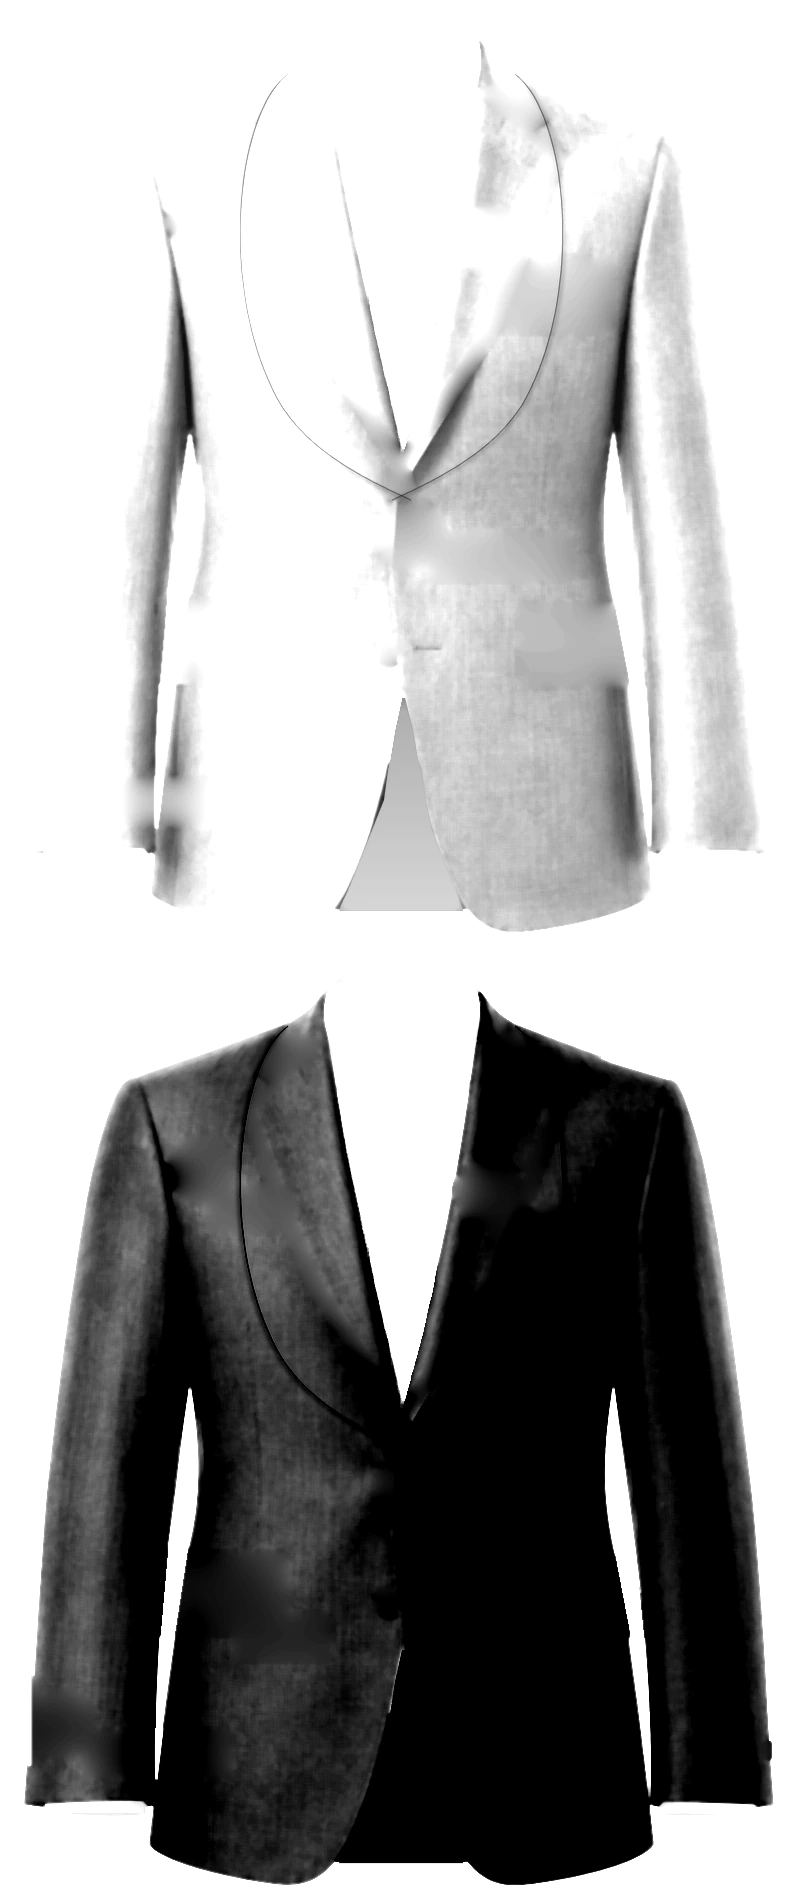
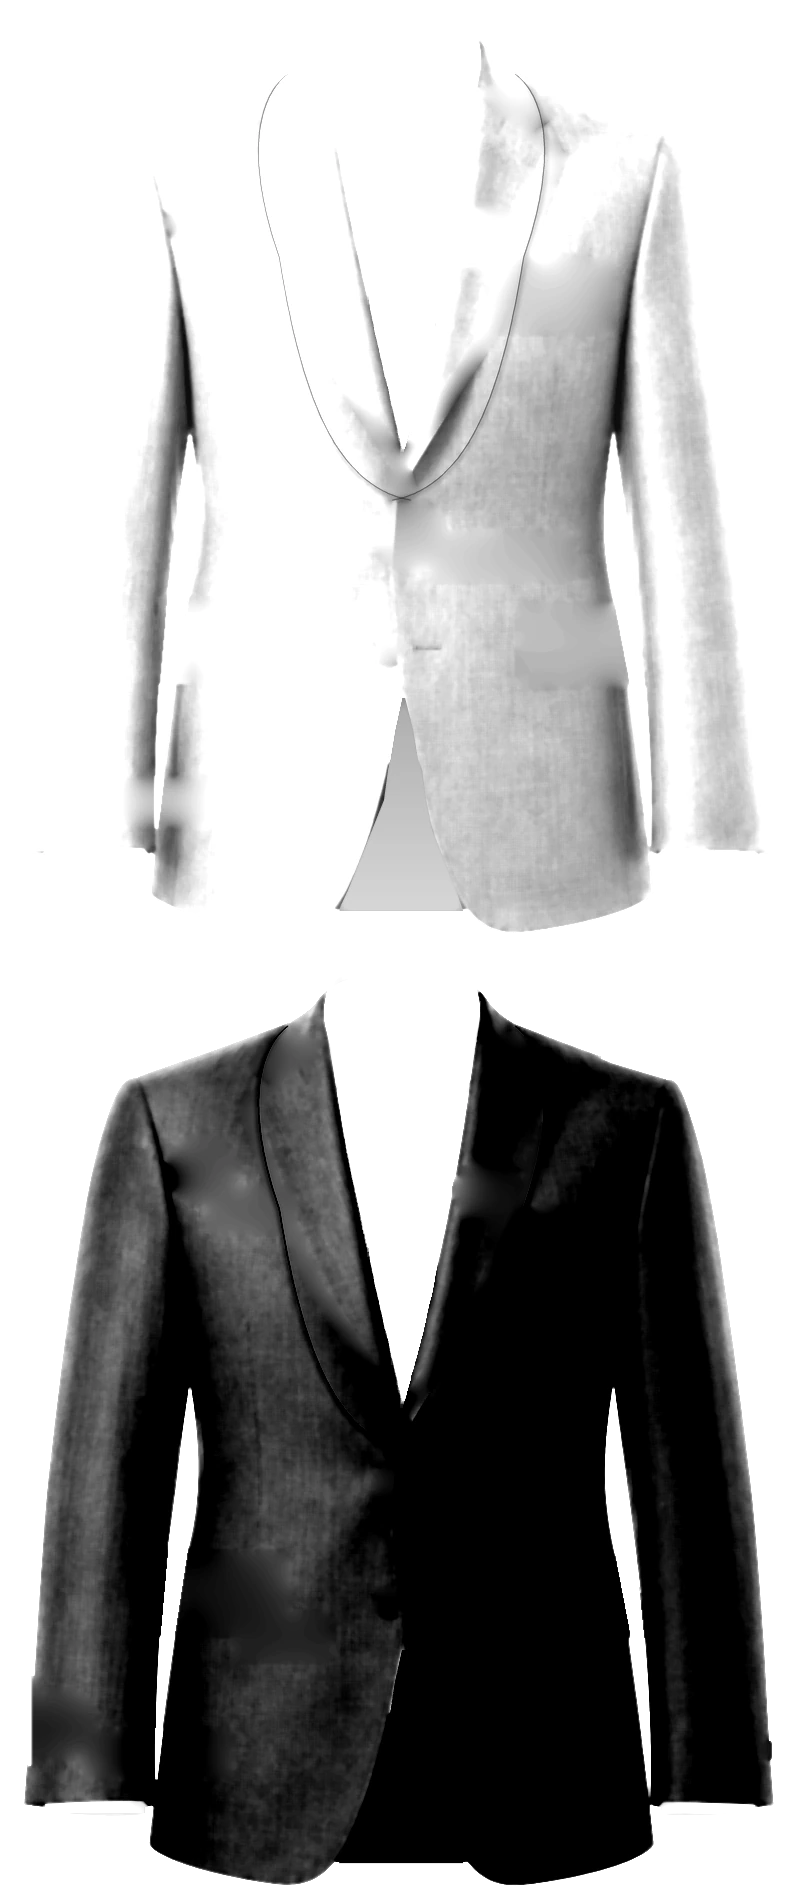
Your Jacket picture: Arc lapel redrawn as the shawl outline with a rounded closure (was too wide)
Claude-Session: https://claude.ai/code/session_01Y2WUq1weRP5XrU8gepbqNJ

diff --git a/jacket-studio.js b/jacket-studio.js
@@ -51,7 +51,7 @@
     "Semi-Peak Lapel": "./assets/jacket-photo-shade-front-peak.webp?v=3",
     "Diamond Lapel": "./assets/jacket-photo-shade-front-diamond.webp?v=3",
     "Shawl": "./assets/jacket-photo-shade-front-shawl.webp?v=3",
-    "Arc Lapel": "./assets/jacket-photo-shade-front-arc.webp?v=1",
+    "Arc Lapel": "./assets/jacket-photo-shade-front-arc.webp?v=2",
   };
   // Double breasted fronts use their own photo (peak lapels, the front
   // crossing over; scripts/make_jacket_photo_db.py).
@@ -60,7 +60,7 @@
   const SHADE_DB_LAPEL = {
     "Diamond Lapel": "./assets/jacket-photo-shade-front-db-diamond.webp?v=1",
     "Shawl": "./assets/jacket-photo-shade-front-db-shawl.webp?v=1",
-    "Arc Lapel": "./assets/jacket-photo-shade-front-db-arc.webp?v=1",
+    "Arc Lapel": "./assets/jacket-photo-shade-front-db-arc.webp?v=2",
   };
   const isDB = (v) => /^Double/.test(String(v.frontbutton || ""));
   // One fabric tile (two swatches, ~16 cm of cloth) in picture pixels.

diff --git a/index.html b/index.html
@@ -1360,7 +1360,7 @@
 <!-- Your Jacket peek: a small read-only picture of the jacket beside the
      Jacket questions; tap to see it big (Daniel, 2026-11-19). The old
      clickable "Interactive Jacket" mode is no longer offered. -->
-<script src="./jacket-studio.js?v=20261119arc"></script>
+<script src="./jacket-studio.js?v=20261119arc2"></script>
 
 </body>
 </html>

diff --git a/scripts/make_jacket_photo.py b/scripts/make_jacket_photo.py
@@ -253,8 +253,10 @@ LAPEL={
   # Arc (factory "Arc bottom shawl", Daniel 2026-11-19): a wide shawl edge
   # that stays wide low down, then only the last part above the top button
   # turns in to a blunt rounded end.
+  # Same top as the shawl; lower down the edge stays out longer, then only
+  # the end above the top button turns in to a blunt rounded tip.
   'arc': dict(polys=[COLLAR,NOTCH], lines=[(OLD_EDGE,18)],
-              edges=[(cubic((515,74),(570,116),(584,300),(522,405))[:-1]+cubic((522,405),(492,452),(440,478),(392,500)),(1.6,1.2))]),
+              edges=[([q for q in cubic((515,74),(566,112),(566,250),(392,500),n=80) if q[1]<=261]+cubic((523,261),(512,330),(494,412),(458,458))[1:-1]+cubic((458,458),(436,486),(412,497),(392,500)),(1.6,1.2))]),
 }
 def soft(m,r): return np.asarray(Image.fromarray((np.clip(m,0,1)*255).astype(np.uint8)).filter(ImageFilter.GaussianBlur(r))).astype(np.float32)/255
 def lapel_variant(base,style):

diff --git a/scripts/make_jacket_photo_db.py b/scripts/make_jacket_photo_db.py
@@ -269,7 +269,7 @@ DBLAPEL = {
     'shawl': cubic((500, 68), (556, 104), (585, 250), (397, 452)),
     # Arc: wide like the shawl, then only the end above the button turns in
     # to a blunt rounded tip.
-    'arc': cubic((500, 68), (560, 108), (598, 270), (528, 366))[:-1] + cubic((528, 366), (498, 410), (446, 436), (397, 452)),
+    'arc': [q for q in cubic((500, 68), (556, 104), (585, 250), (397, 452), n=80) if q[1] <= 247] + cubic((528, 247), (518, 310), (500, 378), (464, 418))[1:-1] + cubic((464, 418), (442, 440), (418, 450), (397, 452)),
 }
 for style, edge in DBLAPEL.items():
     v = Ls.copy()
